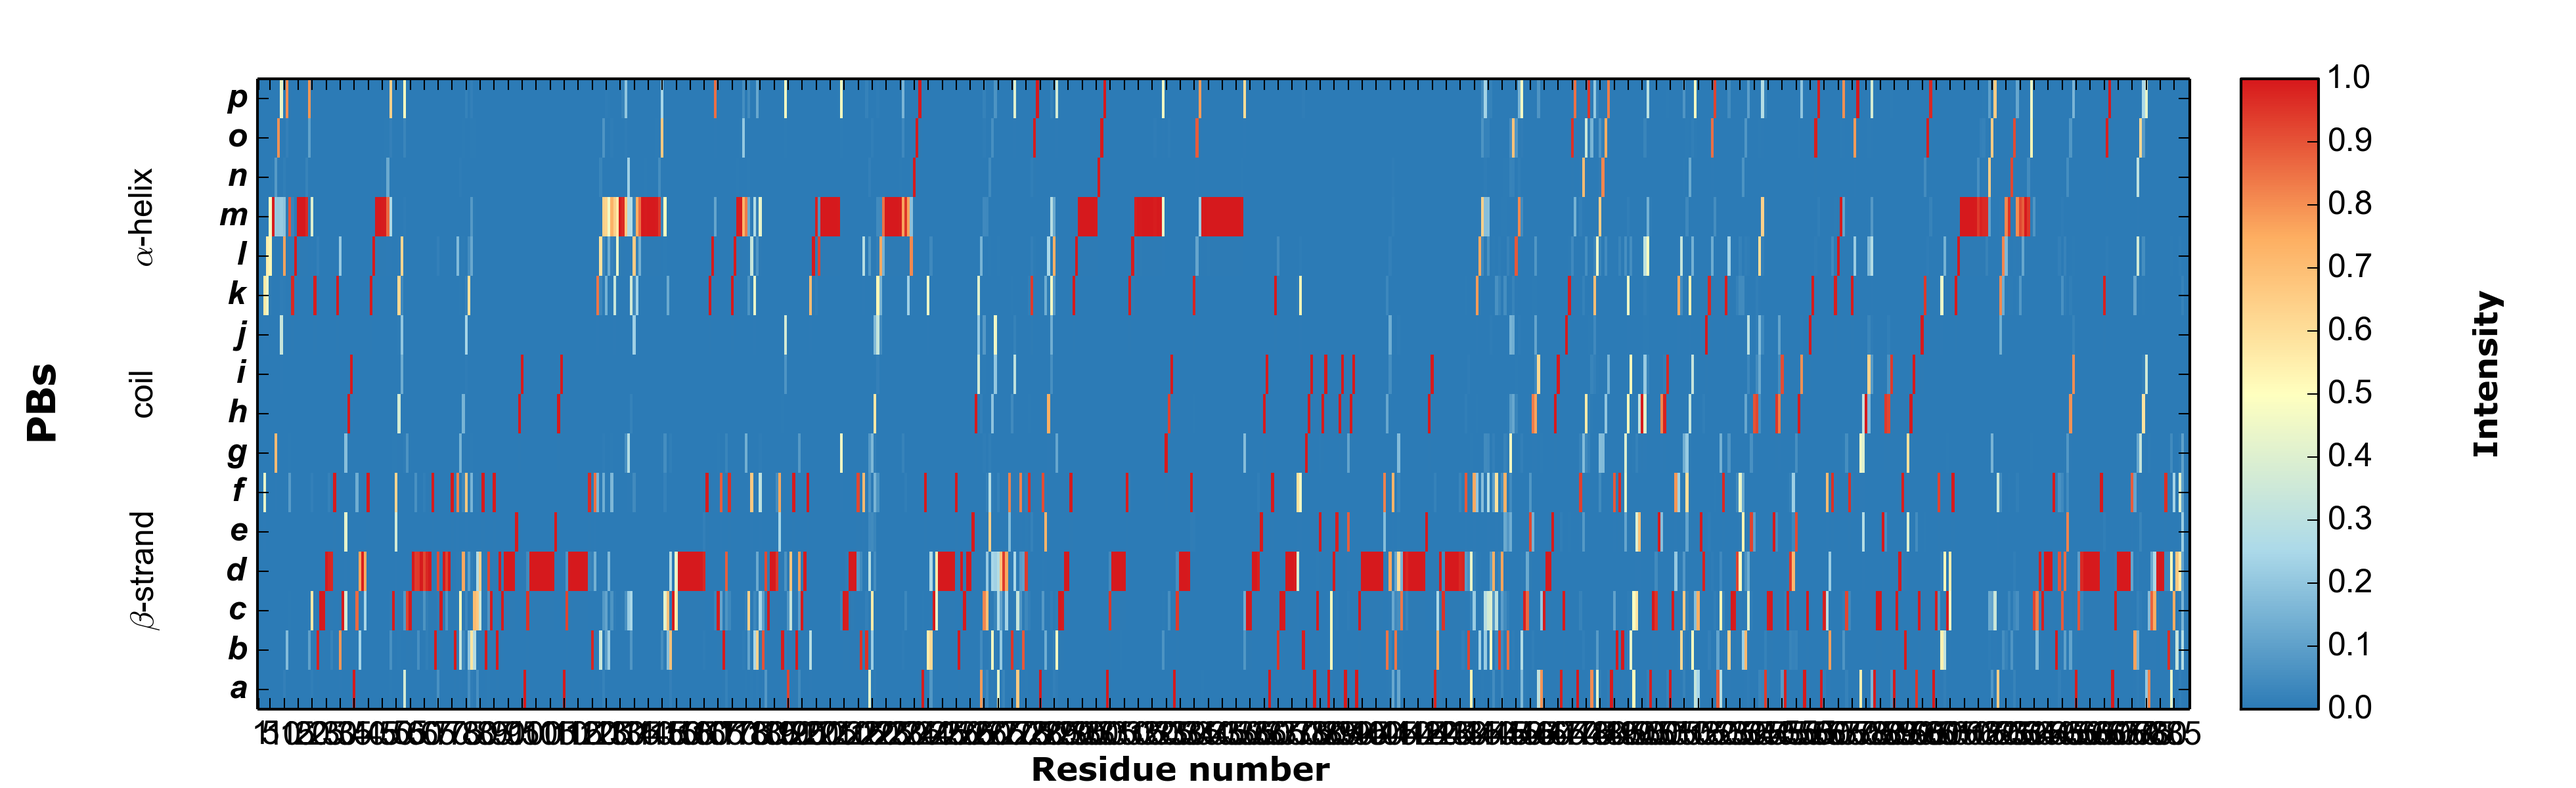
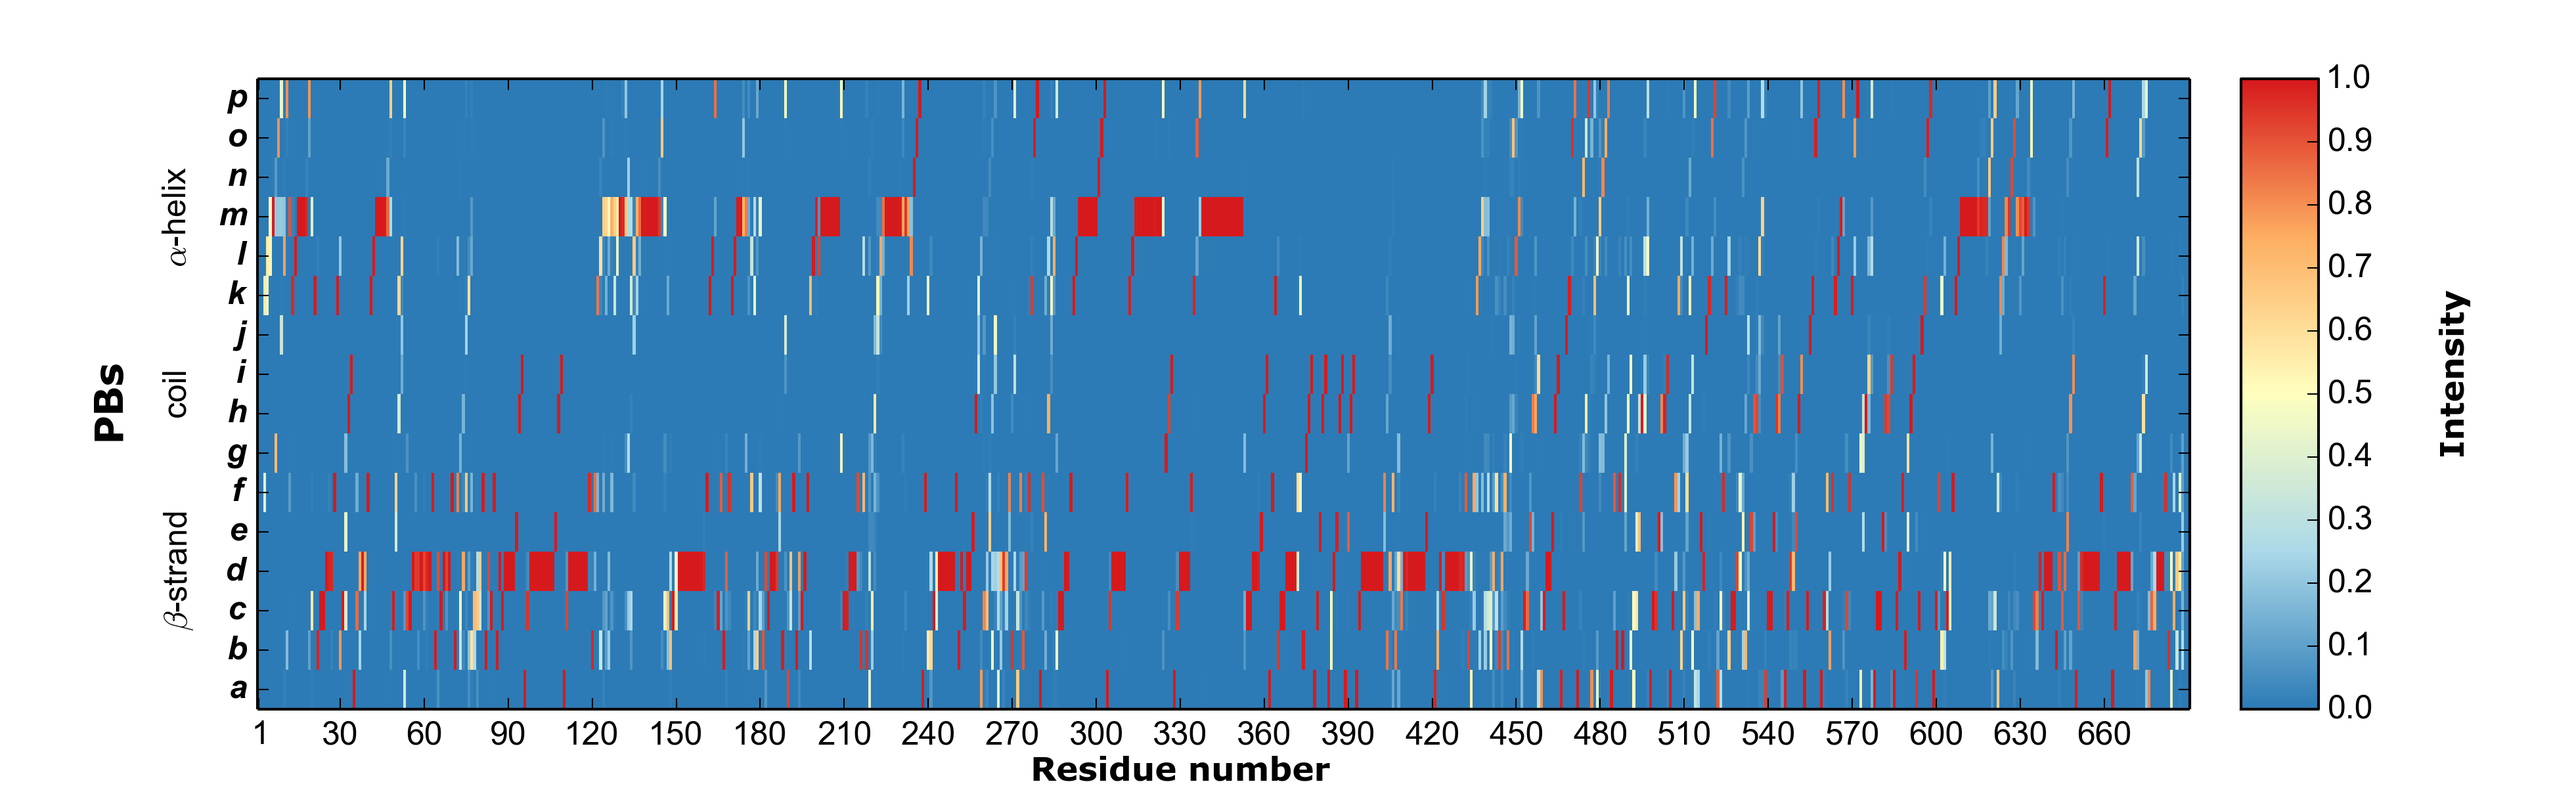
Improve rendering of frequency map for small and large proteins

diff --git a/pbxplore/analysis/visualization.py b/pbxplore/analysis/visualization.py
@@ -96,7 +96,6 @@ def plot_map(fname, count_mat, residue_min=1, residue_max=None):
     residue_max: int
         the upper bound of the protein sequence
     """
-
     # Get the frequency matrix
     freq_mat = utils.compute_freq_matrix(count_mat)
     # Slice it
@@ -105,18 +104,28 @@ def plot_map(fname, count_mat, residue_min=1, residue_max=None):
     # Residue number with good offset given the slice
     x = numpy.arange(residue_min, residue_min + nb_residues)
 
+    # Define a scaling factor to handle nice rendering for small and large proteins
+    # This is empirical!
+    scaling_factor = math.log(nb_residues)
+
     # define ticks for x-axis
     x_step = 5
+    # space ticks for large proteins
+    if nb_residues > 100:
+        x_step = 10
+    if nb_residues > 200:
+        x_step = int( scaling_factor) * 5
     xticks = x[::x_step]
     # trying to round ticks: 5, 10, 15 instead of 6, 11, 16...
     if xticks[0] == 1:
         xticks = xticks-1
         xticks[0] += 1
 
+    # define ticks for y-axis
     yticks = ('a', 'b', 'c', 'd', 'e', 'f', 'g', 'h',
               'i', 'j', 'k', 'l', 'm', 'n', 'o', 'p')
 
-    fig = plt.figure(figsize=(2.0*math.log(nb_residues), 4))
+    fig = plt.figure(figsize=(2.0 * scaling_factor, 4))
     ax = fig.add_axes([0.1, 0.1, 0.75, 0.8])
 
     # Color scheme inspired from ColorBrewer
@@ -141,20 +150,23 @@ def plot_map(fname, count_mat, residue_min=1, residue_max=None):
     # print "beta-strand", "coil" and "alpha-helix" text
     # only if there is more than 20 residues
     if nb_residues >= 20:
+        text_shift = 0.0
+        if nb_residues >= 100:
+            text_shift = scaling_factor / 500
         # center alpha-helix: PB m (13th PB out of 16 PBs)
         # center coil: PB h and i (8th and 9th PBs out of 16 PBs)
         # center beta-sheet: PB d (4th PB out of 16 PBs)
-        fig.text(0.05, 4.0/16*0.8+0.075, r"$\beta$-strand", rotation=90,
+        fig.text(0.05 + text_shift, 4.0/16*0.8+0.075, r"$\beta$-strand", rotation=90,
                  va='center', transform=ax.transAxes)
-        fig.text(0.05, 8.5/16*0.8+0.075, r"coil", rotation=90,
+        fig.text(0.05 + text_shift, 8.5/16*0.8+0.075, r"coil", rotation=90,
                  va='center')
-        fig.text(0.05, 13.0/16*0.8+0.075, r"$\alpha$-helix", rotation=90,
+        fig.text(0.05 + text_shift, 13.0/16*0.8+0.075, r"$\alpha$-helix", rotation=90,
                  va='center', transform=ax.transAxes)
 
-    fig.text(0.01, 0.5, "PBs", rotation=90, weight="bold",
+    fig.text(0.01 + text_shift * 2, 0.5, "PBs", rotation=90, weight="bold",
              size='larger', transform=ax.transAxes)
     fig.text(0.4, 0.01, "Residue number", weight="bold")
-    fig.text(0.96, 0.6, "Intensity", rotation=90, weight="bold")
+    fig.text(0.96 - text_shift, 0.6, "Intensity", rotation=90, weight="bold")
     fig.savefig(fname, dpi=300)
 
 
